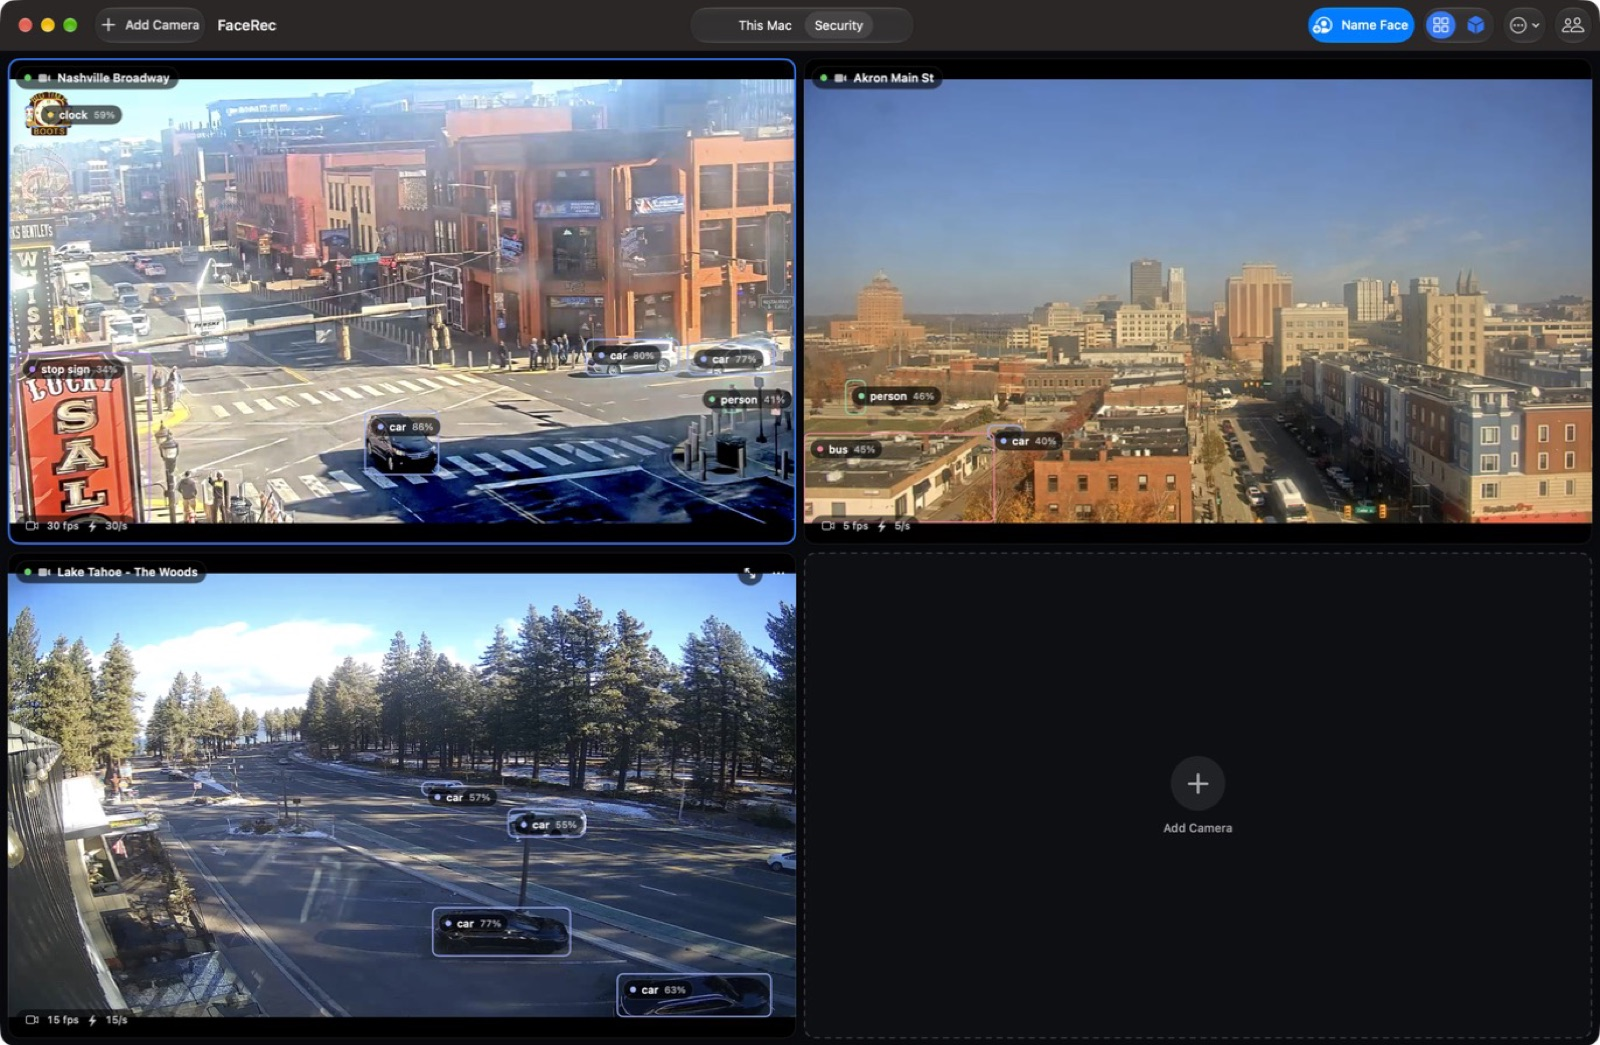
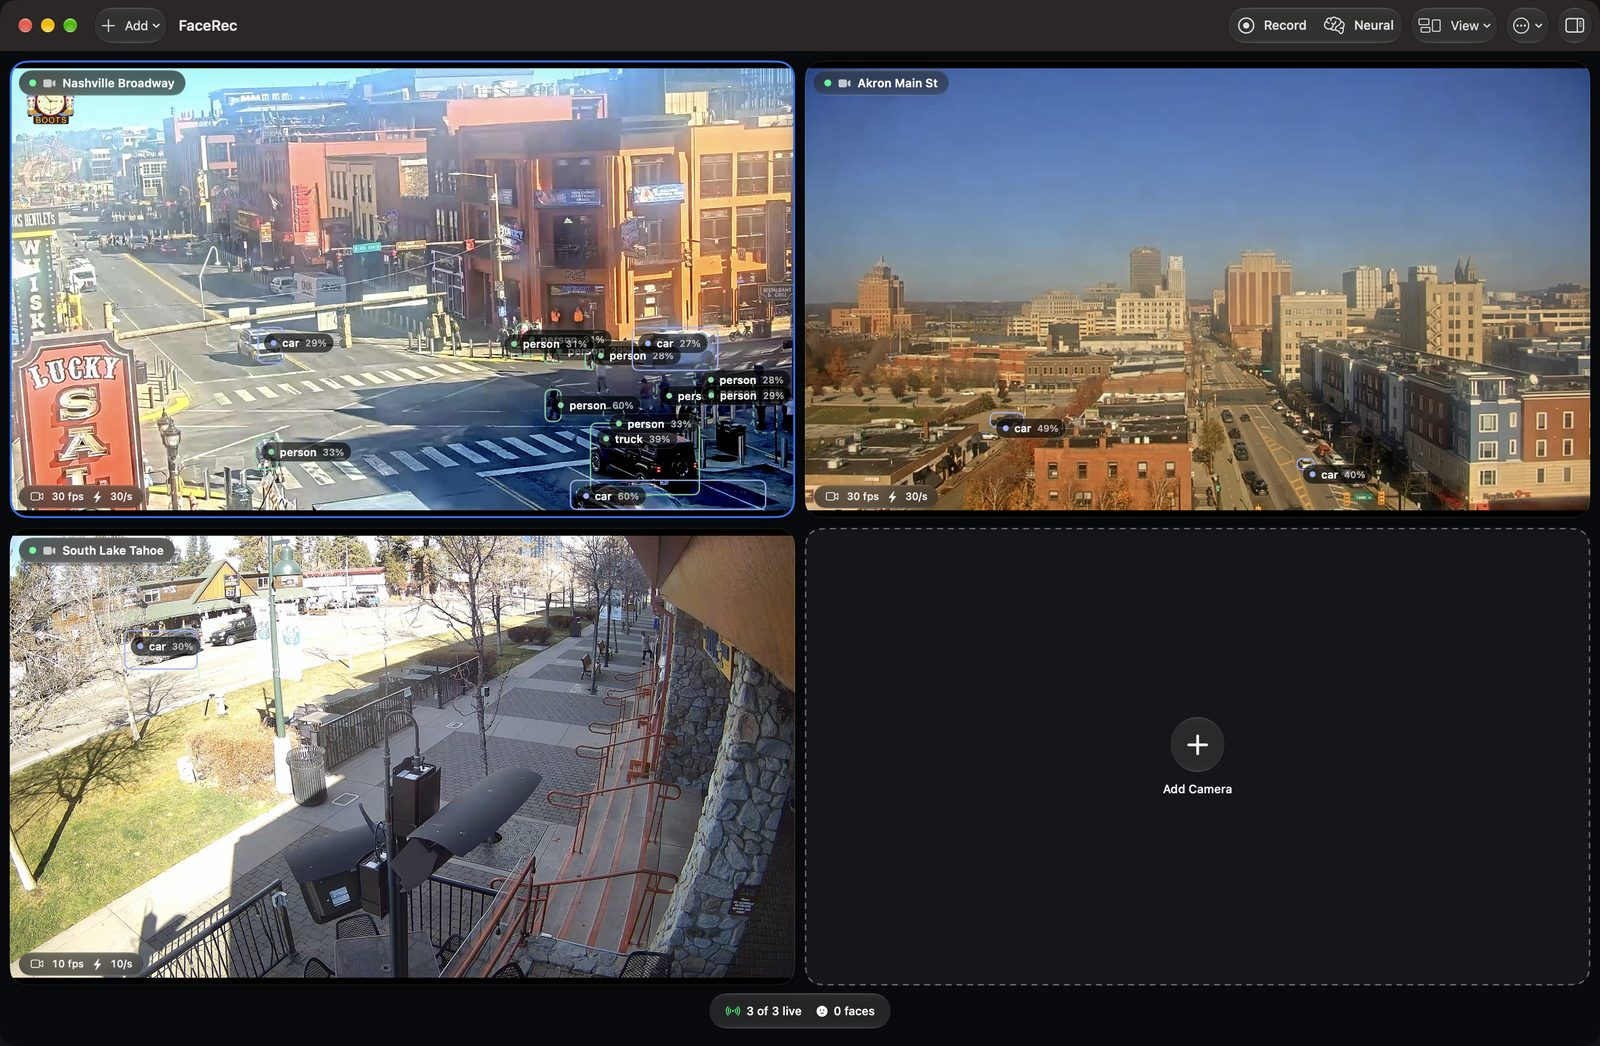
Update README screenshots for 1.8
New captures of the camera grid, a single camera and the Neural panel
(which replaces the old object filter picture), taken from the released
1.8 app on three public street cameras.

diff --git a/README.md b/README.md
@@ -86,9 +86,9 @@ On two live street cameras over 40 seconds, boxes that vanished and came back wi
 
 *One camera shown alone. Each box is a tracked object with its label and the detector's confidence.*
 
-![The object filter panel open over the video](docs/images/object-filter.jpg)
+![The Neural panel open over the camera grid](docs/images/neural-panel.jpg)
 
-*The object filter: turn detection on, set how sure it must be, and choose which kinds of object to show.*
+*The Neural panel: face recognition, learning and object detection in one place, with how sure the detector must be and which kinds of object to show.*
 
 ## Cameras
 
